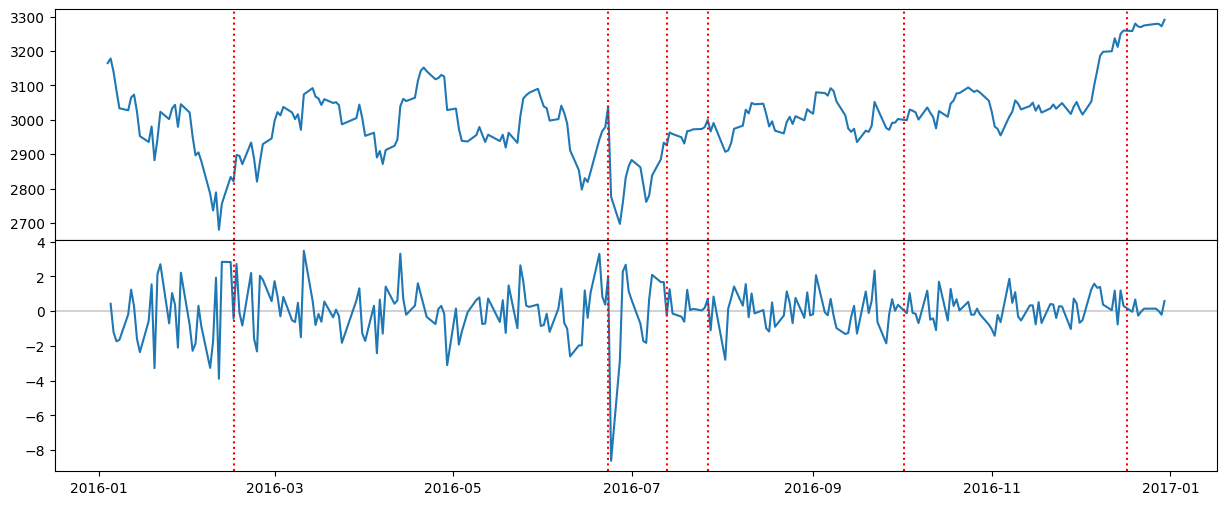
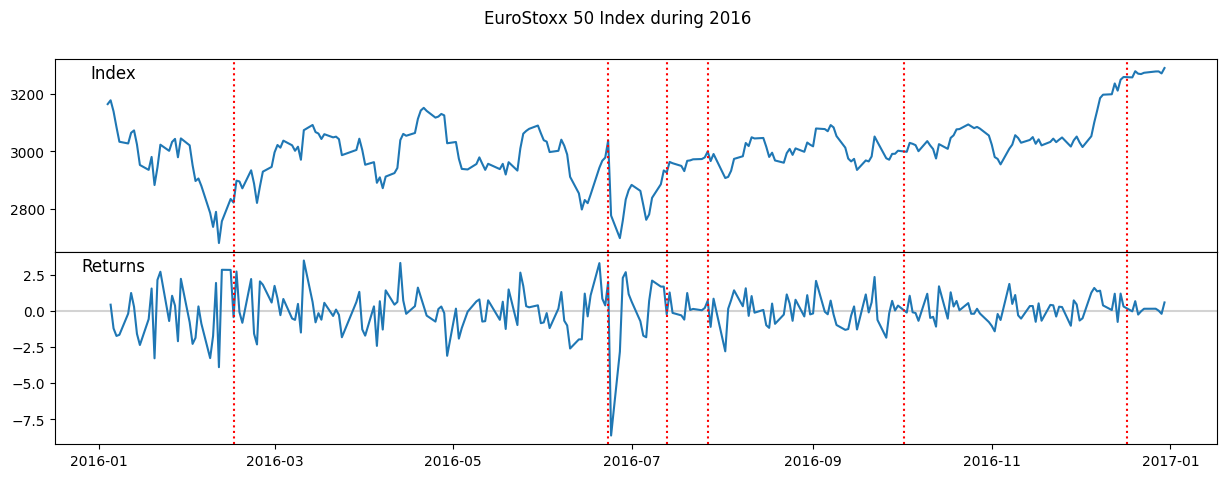
Finalised and comment on additional performance

diff --git a/graphical_analysis.py b/graphical_analysis.py
@@ -82,6 +82,7 @@ def gen_graph(line_input, df_announce, line_name=str, col_name=str, y="all"):
         plt.plot(line_input["Date"], line_input[col_name])
     for xc in df_announce["Date"]:
         plt.axvline(x=xc, color="red", ls="dotted")
+    plt.title("Google search 'BREXIT'")
     plt.savefig(output1_folder_path + line_name + "_" +
                 col_name.lower() + "_" + str(y), bbox_inches='tight')
     plt.clf()
@@ -104,7 +105,12 @@ def gen_multi_graph_multi_line(line_input_1, line_input_2, df_announce, line_nam
     for xc in df_announce["Date"]:
         axs[0].axvline(xc, color="red", ls="dotted")
         axs[1].axvline(xc, color="red", ls="dotted")
-    fig.set_size_inches(15, 6)
+    fig.set_size_inches(15, 5)
+    fig.suptitle(f"LIBOR during {y}")
+    axs[0].set_title("Rates", y=1.0, pad=-14, position=(0.05,0.6))
+    axs[1].set_title("Changes", y=1.0, pad=-14, position=(0.05,0.6))
+    if y == 2017:
+        axs[1].set_title("Changes", y=1.0, pad=-14, position=(0.12,0.6))
     fig.savefig(output1_folder_path + "libor_vol" +
                 "_" + str(y), bbox_inches='tight')
     fig.clear(True)
@@ -124,7 +130,21 @@ def gen_multi_graph(df, df_vol, df_announce, line_name, y):
         axs[0].axhline(100, color="lightgrey", zorder=1)
     if line_name in ["ftse", "s&p", "euro", "reer_vol"]:
         axs[1].axhline(0, color="lightgrey", zorder=1)
-    fig.set_size_inches(15, 6)
+    fig.set_size_inches(15, 5)
+    if line_name == "reer_vol":
+        fig.suptitle("GBP REER from 2016 to 2021")
+        axs[0].set_title('Index', y=1.0, pad=-14, position=(0.05,0.6))
+        axs[1].set_title('Changes', y=1.0, pad=-14, position=(0.05,0.6))
+    else:
+        if line_name == "ftse":
+            _name = "FTSE 100"
+        if line_name == "s&p":
+            _name = "S&P 500"
+        if line_name == "euro":
+            _name = "EuroStoxx 50"
+        fig.suptitle(f"{_name} Index during {y}")
+        axs[0].set_title('Index', y=1.0, pad=-14, position=(0.05,0.6))
+        axs[1].set_title('Returns', y=1.0, pad=-14, position=(0.05,0.6))
     fig.savefig(output1_folder_path + line_name +
                 "_" + str(y), bbox_inches='tight')
     fig.clear(True)
@@ -177,7 +197,7 @@ google = get_raw_data("google-search.csv")
 announce = get_raw_data("announcement.xlsx")
 
 # Graphical Analysis
-for y in list(range(2016, 2022)):
+for y in list(range(2016,2021)):
     filter_annouce = gen_filter_df(announce, y)
     # equity market filter
     for line_name in ["ftse", "s&p", "euro"]:

diff --git a/garch.py b/garch.py
@@ -30,7 +30,7 @@ def output_sim_returns(garch_parameters, num_days_to_simulate=1000):
     return sim_data['data']
 
 
-def simulate_returns(returns, num_sims=10, num_days_to_simulate=1000):
+def simulate_returns(returns, num_sims=100, num_days_to_simulate=1000):
     """simulate returns from providing data"""
     sim_df = pd.DataFrame(index=range(num_days_to_simulate), columns=range(num_sims))
     result = run_garch_model(returns)
@@ -46,6 +46,14 @@ start = dt.datetime(2000,1,1)
 end = dt.datetime(2022,12,31)
 print("Start retrieving data from Yahoo Finance")
 ftse = yf.download("^FTSE", start, end)
+# plot trends
+print("Plot trends")
+plt.figure(figsize=(15, 5))
+plt.plot(ftse["Close"])
+plt.title("Close")
+plt.savefig(output2_folder_path + "ftse_close", bbox_inches='tight')
+plt.clf()
+plt.close()
 # calculate returns
 print("Generate returns")
 returns = 100 * ftse.Close.pct_change().dropna()
@@ -112,4 +120,25 @@ plt.savefig(output2_folder_path + "simu_100", bbox_inches='tight')
 plt.clf()
 plt.close()
 
-print("Done volatility analysis by GARCH model!")
+# Compare performance
+# sim_df['model_mean'] = sim_df.mean(axis=1)
+# for y in [10, 5, 1]:
+#     real_re = returns.rolling(y*250).mean()
+#     model_re = sim_df["model_mean"].rolling(y*250).mean()
+#     print(f"Mean of {y} year(s) between Real Returns & Model Prediction \n{real_re.dropna().mean()} & {model_re.dropna().mean()}\n")
+
+# comp_df = pd.DataFrame(returns).reset_index()
+# comp_df["model_mean"] = sim_df['model_mean']
+# comp_df = comp_df.set_index("Date")
+
+# # Bull 2003-2007
+# real_re = comp_df.loc["2003-01-01": "2007-12-31"]["Close"].mean()
+# model_re = comp_df.loc["2003-01-01": "2007-12-31"]["model_mean"].mean()
+# print(f"Bull market (2003-2007) between Real Returns & Model Prediction \n{real_re} & {model_re}\n")
+
+# # Bear 2007-2009
+# real_re = comp_df.loc["2007-01-01": "2009-12-31"]["Close"].mean()
+# model_re = comp_df.loc["2007-01-01": "2009-12-31"]["model_mean"].mean()
+# print(f"Bull market (2007-2009) between Real Returns & Model Prediction \n{real_re} & {model_re}\n")
+
+# print("Done volatility analysis by GARCH model!")
